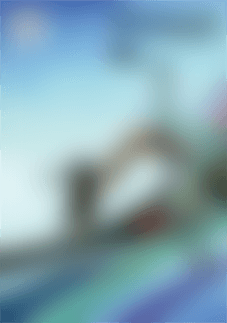
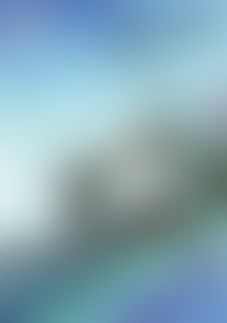
contact us removed

diff --git a/index.html b/index.html
@@ -83,8 +83,7 @@
                     </li>
                     <li class="navigation__item"><a href=team class="navigation__link"><span>04</span>Team Members</a>
                     </li>
-                    <li class="navigation__item"><a href="contact" class="navigation__link"><span>05</span>Contact Us</a>
-                    </li>
+                   
                 </ul>
             </nav>
         </div>
@@ -222,7 +221,7 @@ Pictoreal, the annual college magazine of PICT, brings together every creative m
             <div class="col-1-of-2">
                 <div class="composition" data-aos="fade-up">
 
-                    <a href="magazines"><img src="assets/images/picto-volumes/vol_2019_21.jpg" style="top: 0"
+                    <a href="magazines"><img src="assets/images/picto-volumes/vol_2020_22_blur.png" style="top: 0"
                             sizes="(max-width: 56.25em) 20vw, (max-width: 37.5em) 30vw, 300px" alt="Photo 1"
                             class="composition__photo composition__photo--p1"></a>
 

diff --git a/magazines/preview/index.html b/magazines/preview/index.html
@@ -60,11 +60,6 @@
                 ><span>04</span>Team Members</a
               >
             </li>
-            <li class="navigation__item">
-              <a href="/contact" class="navigation__link"
-                ><span>05</span>Contact Us</a
-              >
-            </li>
           </ul>
         </nav>
       </div>

diff --git a/gallery/index.html b/gallery/index.html
@@ -80,11 +80,6 @@
               ><span>04</span>Team Members</a
             >
           </li>
-          <li class="navigation__item">
-            <a href="/contact" class="navigation__link"
-              ><span>05</span>Contact Us</a
-            >
-          </li>
         </ul>
       </nav>
     </div>

diff --git a/team/index.html b/team/index.html
@@ -75,11 +75,6 @@
               ><span>04</span>Team Members</a
             >
           </li>
-          <li class="navigation__item">
-            <a href="/team" class="navigation__link"
-              ><span>05</span>Contact Us</a
-            >
-          </li>
         </ul>
       </nav>
     </div>
